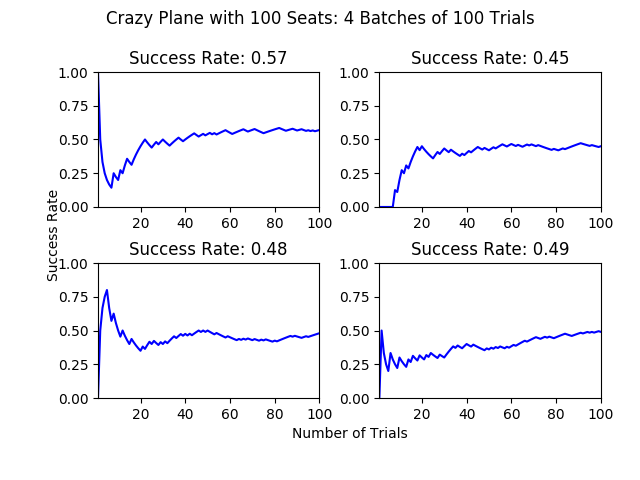
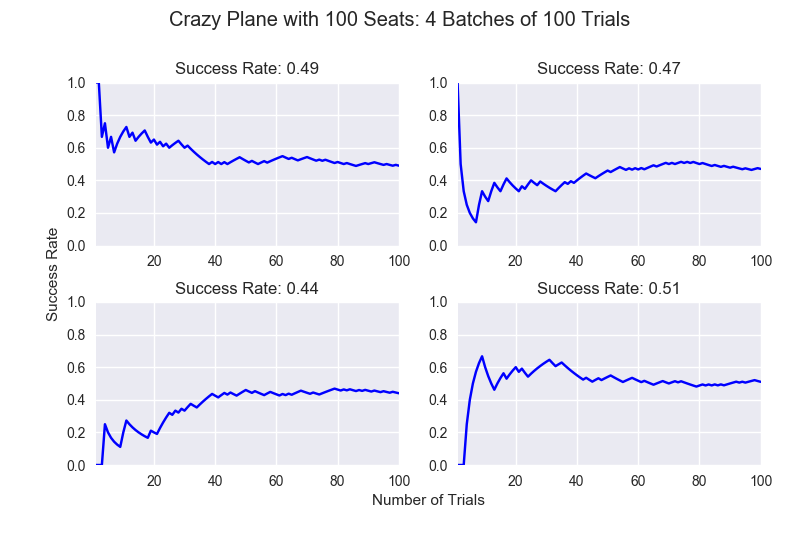
Use seaborn to make K_trials_planesize_N plots prettier

diff --git a/K_trials_planesize_N.py b/K_trials_planesize_N.py
@@ -1,4 +1,5 @@
 import numpy as np
+import seaborn as sns
 from matplotlib import pyplot as plt 
 import plane_process as pp
 import os
@@ -46,6 +47,8 @@ def plot_cumulative_plane_processes(K, N, pltgrid_x = 1, pltgrid_y = 1,\
 					  left = 'off', right = 'off')
 	outer.set_xlabel('Number of Trials')
 	outer.set_ylabel('Success Rate')
+	outer.grid(False)
+	outer.set_facecolor('white')
 
 	# Set overall title and provide more space for it.
 	plt.suptitle("Crazy Plane with %s Seats: %s Batches of %s Trials"\
